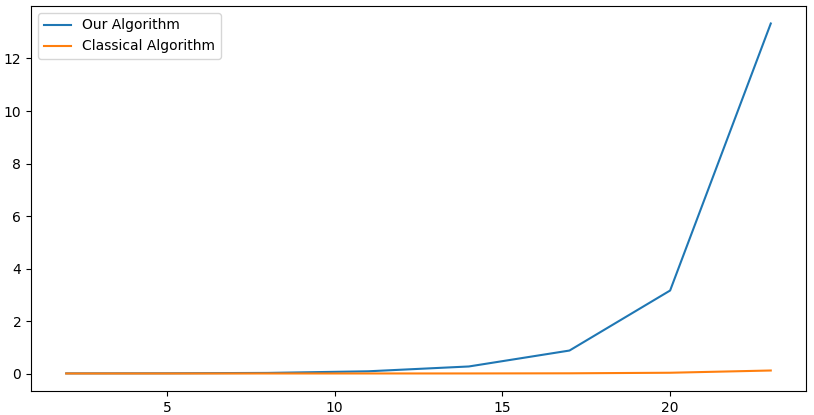
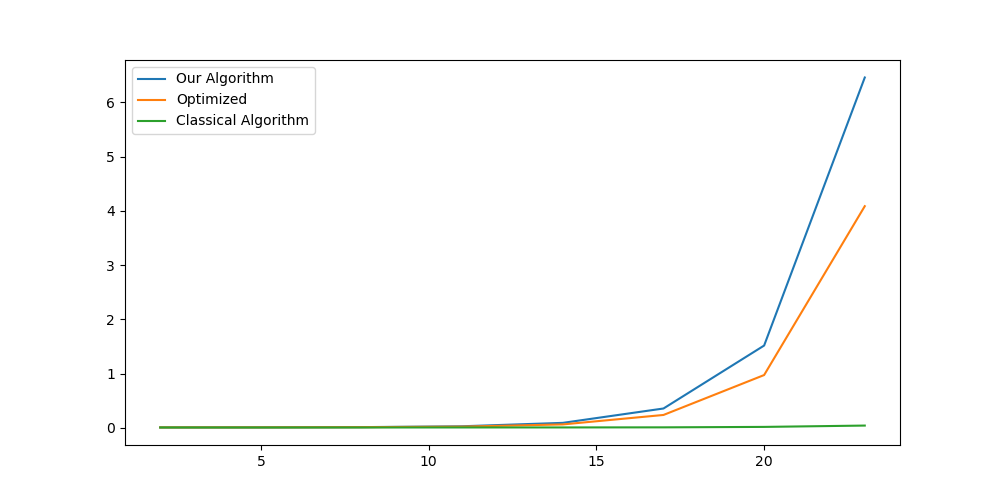
Updated paper for optimization

diff --git a/Paper/paper.tex b/Paper/paper.tex
@@ -1018,6 +1018,133 @@ So for example, \ttt{1 + 2 * (3 + 4)} is then parsed as
 \end{align*}
 \gobble)\gobble)
 
+\section{Optimizing the Algorithm}
+
+Iterative reduction is an $\Theta(n^2)$-time algorithm under the assumption that every reduction reduces the number of tokens by one: (which is the case in the language provided), and no reduction yields a string of printable terms (e.g. when creating parse trees).
+This is because a string of the form $\s s^1_1\s s^2_2\cdots\s s^n_n$ will take $n$ applications of the $\beta$-reducer, each application taking $n-k$ iterations (since $\beta$ is recursive).
+
+But we can make this more efficient; indeed, iterative reduction can be made into a $\Theta(n)$-time algorithm.
+Currently, the implementation of iterative reduction is as follows (assuming the existence of $\hb$):
+
+\def\bhelp{\hbox{\tencsc$\hb$-helper}}
+\begin{algo}[h]
+\algorithm
+    \Function{$\beta$-helper}{$\xi,\bar s$}
+        \State $\xi = \sigma^1_n(u)\sigma^2_m(v)\xi'$
+        \lIf{$\sigma^1\in\termp$} \Return $\gen{\bar s(\sigma^1)_n\sigma^2_m(v)\xi'}[\bar s']$
+        \If{$\hb(\sigma^1,\epsilon)=(\tau,\rho,f)$ is defined}
+            \State $(w,\zeta,\bar s')\gets f(u,\_,\bar s)$
+            \State $\gen{\xi''}[\bar s'']\gets\beta^*\gen{\pi(\zeta)}[\bar s']$
+            \State $n'\gets \rho(n,\_)$
+            \State\Return $\gen{\tau_{n'}(w)\xi''\xi'}[\bar s'']$
+        \ElseIf{$n\geq m$ and $\hb(\sigma^1,\sigma^2)=(\tau,\rho,f)$ is defined}
+            \State $(w,\zeta,\bar s')\gets f(u,v,\bar s)$
+            \State $\gen{\xi''}[\bar s'']\gets\beta^*\gen{\pi(\zeta)}[\bar s']$
+            \State $n'\gets \rho(n,m)$
+            \State\Return $\gen{\tau_{n'}(w)\xi''\xi'}[\bar s'']$
+        \Else
+            \State\Return undefined
+        \EndIf
+    \EndFunc
+    \nonum\State
+    \Function{$\beta$}{$\xi,\bar s$}
+        \If{$\xi=\epsilon$} \Return $\gen\xi[\bar s]$
+        \ElseIf{$\bhelp\gen\xi[\bar s]=\gen{\xi'}[\bar s']$ is defined}
+            \Return $\gen{\xi'}[\bar s']$
+        \Else
+            \State $\xi=\sigma_n(u)\xi'$
+            \State $\gen{\xi''}[\bar s']\gets\beta\gen{\xi'}[\bar s]$
+            \State\Return $\gen{\sigma_n(u)\xi''}[\bar s']$
+        \EndIf
+    \EndFunc
+    \nonum\State
+    \Function{$\beta^*$}{$\xi,\bar s$}
+        \State $\gen{\xi'}[\bar s']\gets\beta\gen\xi[\bar s]$
+        \If{$\xi==\xi'$} \Return $\gen\xi[\bar s]$
+        \Else\ \Return $\beta^*\gen{\xi'}[\bar s']$
+        \EndIf
+    \EndFunc
+\ealgorithm
+\end{algo}
+
+All \bhelp{} does is check if $\hb$ can be applied to the current token(s), it cannot be optimized in a significant manner.
+What we will optimize is the manner in which we apply $\beta$.
+We can think of our algorithm as having a pointer to the current token in the stream.
+If \bhelp{} can be applied at this pointer, then we alter the stream accordingly, and move the pointer to the beginning, and
+repeat.
+
+But notice that if we have a stream of tokens $\s s^1\cdots\s s^k\cdots\s s^n$ (the current token is $\s s^k$), and we can apply \bhelp{}, we get $\s s^1\cdots\s s^{k-1}\s t\cdots\s s^n$.
+Now, the fact that the pointer was at $\s s^k$ means that it could not have reduced any of the tokens $\s s^1,\dots,\s s^{k-1}$.
+So going back to the beginning will waste time: we don't need to check indices $1,\dots,k-2$.
+Instead what we will do is move the pointer back one (as now it is possible that $\s s^{k-1}$ and $\s t$ can be reduced).
+
+And if $\hb$ cannot be applied at the current pointer, we increment the pointer to the next token (since this is the final rule
+in iterative reduction).
+
+\begin{algo}
+\algorithm
+    \Function{$\hb^*$}{$\xi,\bar s$}
+        \If{$\xi=\epsilon$} \Return $(\gen\xi[\bar s],\bot)$
+        \ElseIf{$\bhelp\gen\xi[\bar s]=\gen{\xi'}[\bar s']$ is defined} \Return $(\gen{\xi'}[\bar s'],\top)$
+        \Else
+            \State $\xi=\sigma^1_n(u)\xi'$
+            \State $(\gen{\xi''}[\bar s'],\s X)\gets\hb^*\gen{\xi'}[\bar s]$
+            \lIf{$\s X$} \Return $\hb^*\gen{\sigma^1_n(u)\xi''}[\bar s']$
+            \lElse \Return $(\gen{\sigma^1_n(u)}[\bar s'],\bot)$
+        \EndIf
+    \EndFunc
+    \nonum\State
+    \Function{$\beta^*$}{$\xi,\bar s$}
+        \State $(\gen{\xi'}[\bar s'],\s X)\gets\hb^*\gen\xi[\bar s]$
+        \lIf{$\s X$} \Return $\beta^*\gen{\xi'}[\bar s']$
+        \lElse \Return $\gen{\xi'}[\bar s']$
+    \EndFunc
+\ealgorithm
+\end{algo}
+
+The algorithm was explained intuitively above, we now focus on how this implementation is faithful to the explanation.
+Firstly, $\beta^*$ calls $\hb^*$, and $\hb^*$ checks if $\bhelp$ can be applied at the current pointer.
+If it can, then it applies it and returns (essentially moving the pointer back one).
+It also returns $\top$, meaning it successfully applied a reduction.
+
+If it cannot apply $\bhelp$, then it moves forward one and applies $\hb^*$.
+Now, if this returns $\bot$, this means that no reductions we performed.
+This means that all we know is that the next reduction is before the current token, so we have to go back to the start.
+Thus we continue returning $\bot$ to the end.
+If it returned $\top$, then there was a reduction performed at the subsequent token, so we try to continue reducing at the current
+token (since we know we cannot reduce previous tokens).
+
+\begin{theorem}
+
+    Assuming $\hb$ is $O(1)$, no reductions produce a stream of printable tokens (as is the case with creating parse trees), and
+    every application of $\hb$ reduces the number of tokens by one, then this algorithm is $O(n)$.
+
+\end{theorem}
+
+\begin{proof}
+
+    Without loss of generality, we will assume that we always reduce a single token (i.e. we never perform
+    $\hb(\sigma^1,\sigma^2)$, instead always performing $\hb(\sigma^1,\epsilon)$).
+    And we will ignore states, since their change does not affect time complexity (since $\hb$ is $O(1)$).
+
+    We will alter our algorithm slightly: for every token $\sigma$, define $\#\sigma=2$.
+    Now, when we call $\hb^*(\sigma^1\cdots\sigma^n)$, we decrement $\#\sigma^1$ by $1$.
+    If $\hb(\sigma^1,\epsilon)$ is defined, then we increment $\#\sigma^0$ by $1$ ($\sigma^0$ is the token
+    before $\sigma^1$, or $\sigma^2$ if $\sigma^1$ was the first token).
+
+    We claim that $\sigma$ can only be reduced if $\#\sigma=1$, and this means that $\#\xi=\sum_{\sigma\in\xi}\#\sigma$ is
+    decremented by $1$ at each call to $\hb^*$ and never incremented.
+    Thus if we can also show that $\#\sigma$ is always non-negative, then we have shown that we call $\hb^*$ at most $2n$ times,
+    and so the algorithm takes $O(n)$ time.
+
+    Notice that if we go passed $\sigma$, then it will only be revisited if the subsequent token is reduced.
+    Suppose that the subsequent token is not reduced, then we only work backward if the algorithm reaches the end of the string,
+    but then $\hb^*$ will return $\bot$, and it will not be called again.
+    This means that if $\#\sigma=1$ and $\sigma$ is not reduced, then $\#\sigma$ can never become $0$ since it is revisited only if
+    the next token is reduced, which would increment $\#\sigma$ by $1$.
+    \qed
+
+\end{proof}
 
 \section{Comparing Implementations}
 
@@ -1077,7 +1204,15 @@ Our ILang code is as follows:
 
 \lstinputlisting[language=Caml, frame=single]{../Demos/currying.ml}
 
-Comparing the time it takes both implementations to run this 300 times, we see that it takes iterative reduction 0.0040886 seconds, opposed to the classical implementation which takes 0.0036926 seconds.
+Comparing the time it takes both implementations to run this 300 times, we see that it takes iterative reduction (unoptimized) 0.001055 seconds, optimized iterative reduction 0.000998 seconds, and the classical implementation (menhir) 0.000866 seconds.
+
+\begin{figure}
+
+    \centerline{\includegraphics[width=\hsize]{../Docs/Images/comparer.png}}
+    \caption{Time to compute \ttt{currying.ml}}
+    \label{fig:curry}
+
+\end{figure}
 
 \subsection{Arithmetical Expressions}
 
@@ -1102,11 +1237,11 @@ expressions generated by $\hbox{\tencsc Generate-Expression}(n,1,100)$ as $n$ va
 
 \begin{figure}
 
-    \centerline{\includegraphics[width=\hsize]{../Docs/Images/expr.png}}
+    \centerline{\includegraphics[width=\hsize]{../Docs/Images/expr-n-n.png}}
     \caption{Time to compute $\hbox{\tencsc Generate-Expression}(n,n)$}
     \label{fig:expr1}
     \medskip
-    \centerline{\includegraphics[width=\hsize]{../Docs/Images/expr1.png}}
+    \centerline{\includegraphics[width=\hsize]{../Docs/Images/expr-n-1.png}}
     \caption{Time to compute $\hbox{\tencsc Generate-Expression}(n,1)$}
     \label{fig:expr2}
 
@@ -1133,7 +1268,7 @@ _prim_print x
 
 \begin{figure}
 
-    \centerline{\includegraphics[width=\hsize]{../Docs/Images/expr.png}}
+    \centerline{\includegraphics[width=\hsize]{../Docs/Images/fib.png}}
     \caption{Time to compute $\hbox{\tt fib}(x)$}
     \label{fig:fib}
 
@@ -1146,11 +1281,6 @@ Our implementation takes approximately $\sim ab^x$ seconds to run where $a=0.000
 We can see that iterative reduction is significantly slower than the menhir-based interpreter.
 This can be for various reasons:
 \begin{enumerate}
-    \item Iterative reduction is an $O(n^2)$-time algorithm (when no reduction produces a string of printable tokens, and every reduction reduces two tokens to one).
-        This is because a string of the form $\s s^1_1\s s^2_2\cdots\s s^n_n$ will take $n$ applications of the $\beta$-reducer, each application taking $n-k$ iterations (since $\beta$ is recursive).
-        This can be made more efficient: instead of starting the next $\beta$-reduction at the beginning of a string, it can be started at the token before the one just reduced.
-        Meaning once $\s s^{n-1}$ and $\s s^n$ are reduced to give $\s x^{n-1}$, we can begin the next iteration of the $\beta$-reducer at $\s s^{n-2}\s x^{n-1}$.
-        Unfortunately, implementing this did not lead to substantial increases in efficiency.
 
     \item When handling function calls, iterative reduction simply re-reduces the string in the definition of the function.
         This requires it to parse and interpret the function again.

diff --git a/README.md b/README.md
@@ -63,35 +63,10 @@ and run again.
 
 If you do use docker, please read the section on [viewing the results](#viewing-the-results).
 
-### Iterative Reduction Implementation
+### Compiling
 
-Navigate to the source for the implementation of iterative reduction:
-```sh
-cd Source
-```
-Set up the opam environment
-```sh
-eval $(opam env)
-```
-Run make
-```sh
-make
-```
-This will compile the source into an executable `ilang` under the `linear-reduction` directory.
-Note that a `make clean` command is provided as well.
-
-### Classical Implementation
-
-Navigate to the source for the classical implementation:
-```sh
-cd Classical-Source
-```
-Run make
-```sh
-make
-```
-This will compile the source into an executable `ilang-classical` under the `linear-reduction` directory.
-Note that a `make clean` command is provided as well.
+Simply run `make` in the main directory.
+This will create three executables: `ilang`, `ilang-opt`, and `ilang-classical`.
 
 ## Running
 
@@ -102,7 +77,7 @@ It only supports the following: `arithmetic.ml`, `currying.ml`, `fib-rec.ml`.
 
 ### Iterative Reduction Implementation
 
-To run our implementation of our algorithm, simply run `./ilang <file path> [y]`.
+To run our implementation of our algorithm, simply run `./ilang <file path> [y]` or `./ilang-opt <file path> [y]`.
 This will execute the file specified by the path `<file path>`.
 Debugging information is printed unless `[y]` is specified.
 
